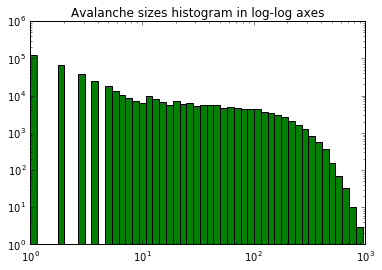
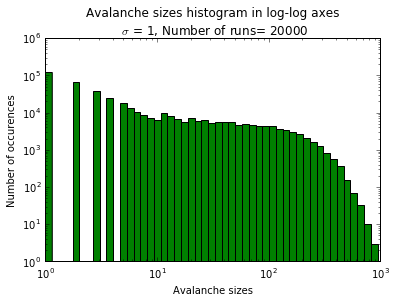
Add titles to graphs, refresh graphs from the same dataset, notes from second meeting with Jens

Changed region(s): [[0.0, 0.0296, 0.9791, 0.9778]]

diff --git a/first_trial.py b/first_trial.py
@@ -13,10 +13,12 @@ Based off of Beggs Plenz 2003 and Beggs Haldemann 2005 papers
 
 """
 
+
 import numpy as np
 import matplotlib.pyplot as plt
 from random import shuffle
 
+#%%
 # Initialization
 # Enter and change parameters here
 
@@ -31,7 +33,7 @@ spont_prob=0.001 # Proabability of  spontaneous activation of connections
 plot_and_save=False # Should we plot and save the activation patterns? 
                     # Won't be neccesary for generating data for log-log plots
                     
-number_of_simulations=2000   # Make sure plot_and_save is False if you're running many simulations.                    
+number_of_simulations=200   # Make sure plot_and_save is False if you're running many simulations.                    
                     
 log_plot_base=10    # Changes the base of the log-log plots on both axes
                     # Any base should give the same results       
@@ -189,17 +191,21 @@ log_max_frames=np.log(max(all_avalanche_frame_lengths))/np.log(log_plot_base)
 # Define the upper border for x axis bins                
 plt.hist(all_avalanche_frame_lengths,bins=np.logspace(0,log_max_frames,base=log_plot_base))
 plt.xscale('log',basex=log_plot_base)
+plt.xlabel('Avalanche frame length')
 plt.yscale('log',basey=log_plot_base)
-plt.axvline(x=node_nr,linestyle='--',color="r") # node_nr should be the end of power law relationship
-plt.title('Avalanche frame lengths histogram in log-log axes')
+plt.ylabel('Number of occurences')
+plt.axvline(x=node_nr,linestyle='--',color="r",label='Node number') # node_nr should be the end of power law relationship
+plt.title('Avalanche frame lengths histogram in log-log axes\n $\sigma$ = {}, Number of runs= {}'.format(sigma,number_of_simulations))
 plt.show()
 
-#%% log-log plot for Avalanche sizes
+    #%% log-log plot for Avalanche sizes
 log_max_sizes=np.log(max(all_avalanche_sizes))/np.log(log_plot_base)
 # Define the upper border for x axis bins                
 plt.hist(all_avalanche_sizes,bins=np.logspace(0,log_max_sizes,base=log_plot_base),color='g')
+plt.xlabel('Avalanche sizes')
 plt.xscale('log',basex=log_plot_base)
+plt.ylabel('Number of occurences')
 plt.yscale('log',basey=log_plot_base)
 #plt.axvline(x=node_nr,linestyle='--',color="r") # Line should be somewhere other than node_nr but where?
-plt.title('Avalanche sizes histogram in log-log axes')
+plt.title('Avalanche sizes histogram in log-log axes\n $\sigma$ = {}, Number of runs= {}'.format(sigma,number_of_simulations))
 plt.show()
